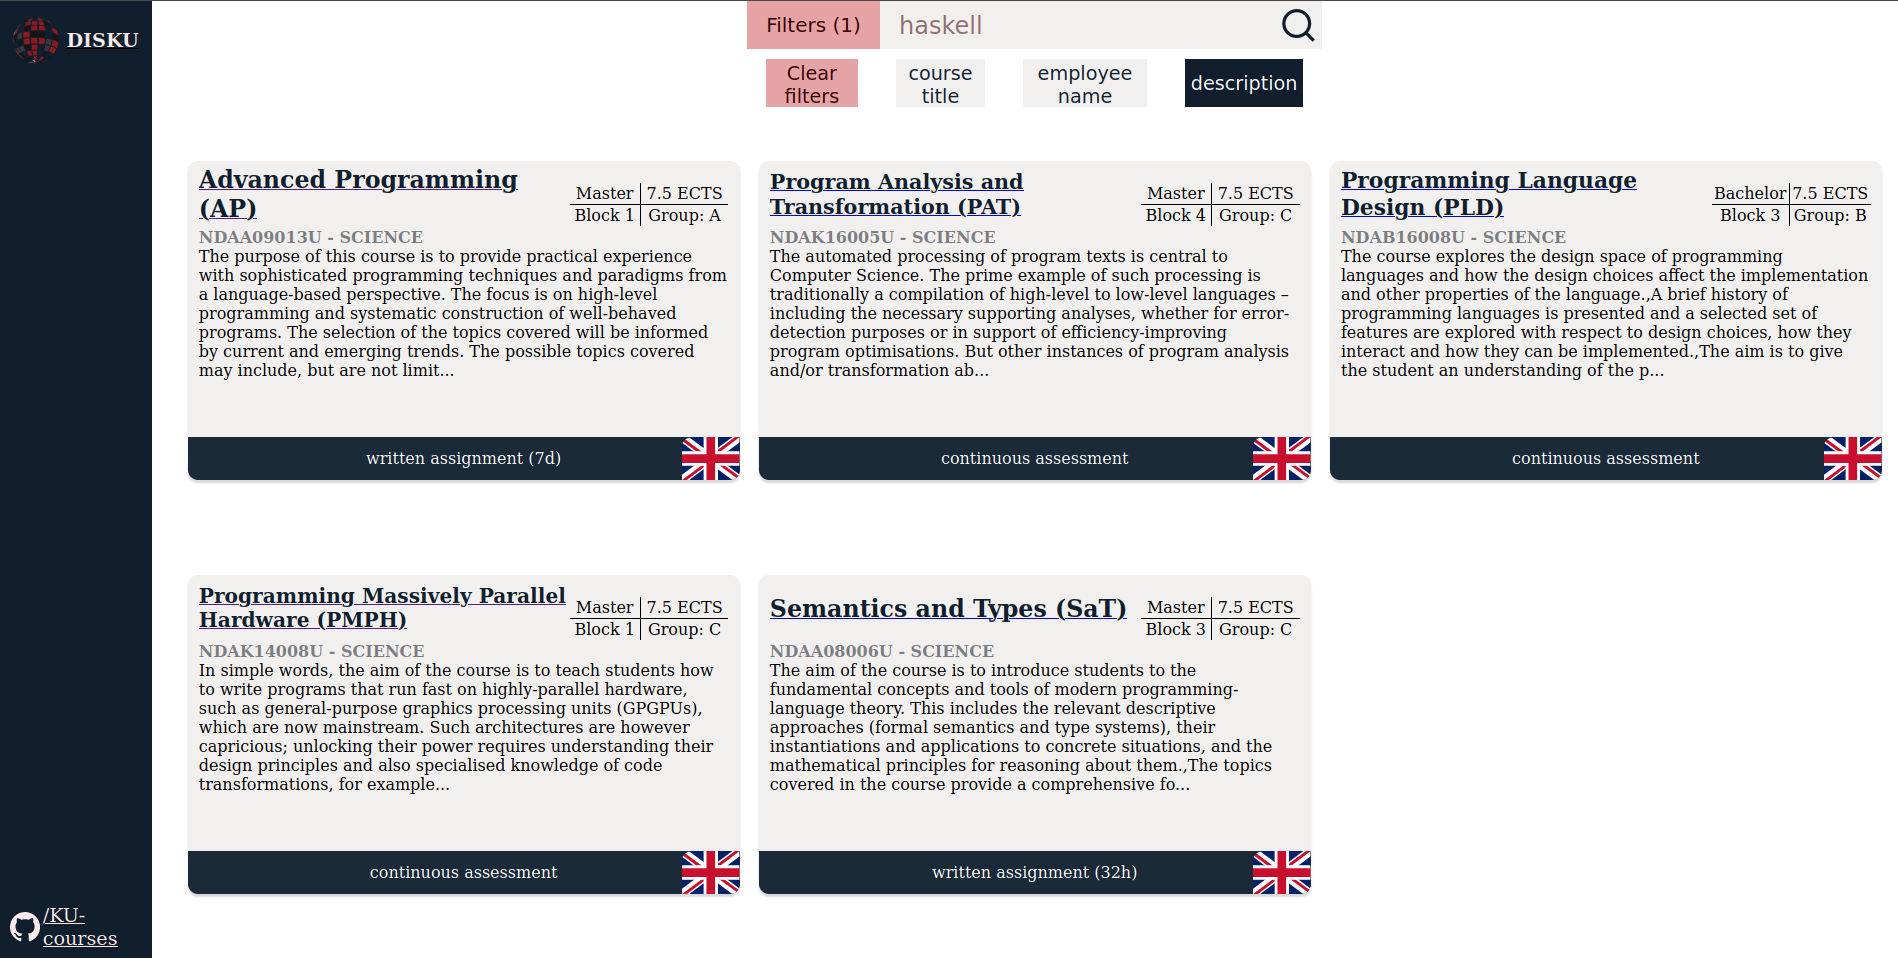
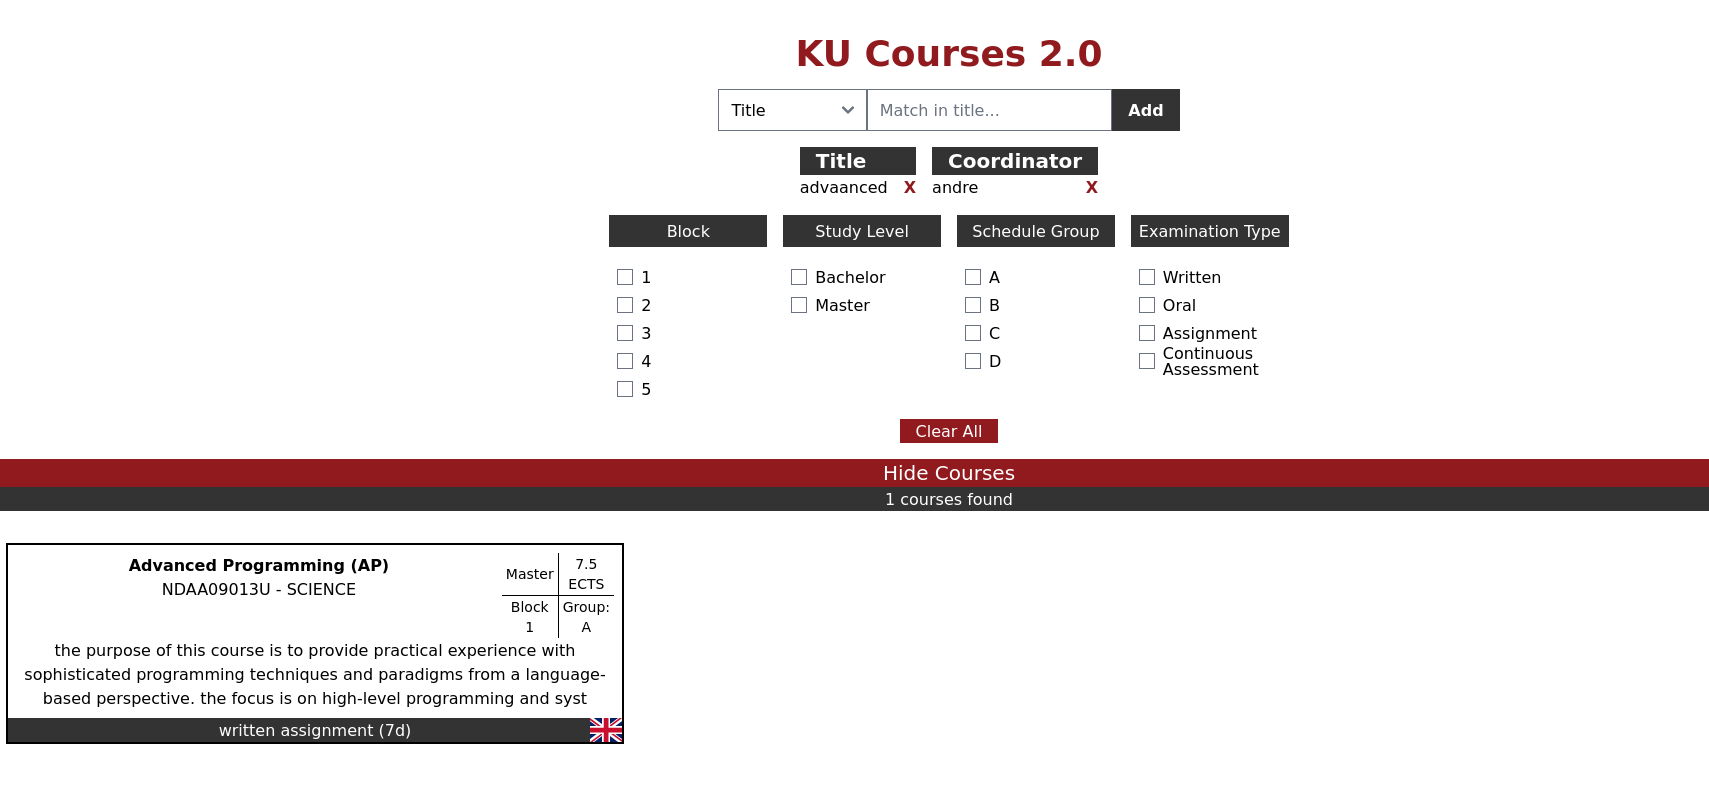
Updated ku-courses page

diff --git a/src/projects/2023-06-12-KU-courses.md b/src/projects/2023-06-12-KU-courses.md
@@ -6,14 +6,16 @@ title: "KU courses"
 github: "https://github.com/joshniemela/jniemela.dk"
 languages: "Clojure, Svelte/TS, Python"
 image: "images/ku-courses.png"
+last-modified: "2023-07-15"
 ---
 
 [See the website here](https://disku.jniemela.dk)
 
 This is one of the larger projects that I have worked on. It is a website that serves you the courses on the faculty of science at the University of Copenhagen with significantly faster load times than the official website and with better search functionality. There are three components to the project:  
-- A web scraper that scrapes the official website for courses and stores them in a database, written in Python, I wrote a large chunk of this, with Jákup Lützen doing the rest.
-- A backend that serves the courses to the frontend, written in Clojure, this part was entirely written by me. It is a REST API that serves the courses in JSON format. It has full-text search functionality and a fully-fledged DSL for filtering the courses which is used by the frontend with arbitrarily complex queries. The server is written using [Reitit](https://github.com/metosin/reitit) and [next.jdbc](https://github.com/seancorfield/next-jdbc).  
+- A web scraper that scrapes the official website for courses and stores them in a database, written in Python, I wrote a large chunk of this, with [Jákup Lützen](https://github.com/BinFlush) doing the rest.
+- A backend that serves the courses to the frontend, written in Clojure, this part was entirely written by me. It is a REST API that serves the courses in JSON. It has full-text search functionality and a more precise fuzzy search compared to the original, with a speed-up of 5 to 400x depending on the query. In contrast to the original, this also doesn't include duplicates of the old courses and it is possible to search by coordinator name and exam type. The server is written using [Reitit](https://github.com/metosin/reitit) and [next.jdbc](https://github.com/seancorfield/next-jdbc).
 
-- A frontend that displays the courses, written in [Svelte](https://github.com/sveltejs/svelte) and [TypeScript](https://github.com/microsoft/TypeScript), this part was mostly written by Kristian Pedersen (I designed a lot of the logic and helped with polishing the UI).
+- A frontend that displays the courses, written in [Svelte](https://github.com/sveltejs/svelte) and [TypeScript](https://github.com/microsoft/TypeScript), the initial draft and design was written by [Kristian Dam Pedersen](https://github.com/KristianDamPedersen), and I have since then rebuilt the entire frontend to its current more minimalistic and blocky design.
+
 
 The project was then finally deployed to my personal server using Docker. The project is open source and can be found [here](https://github.com/joshniemela/KU-courses).
